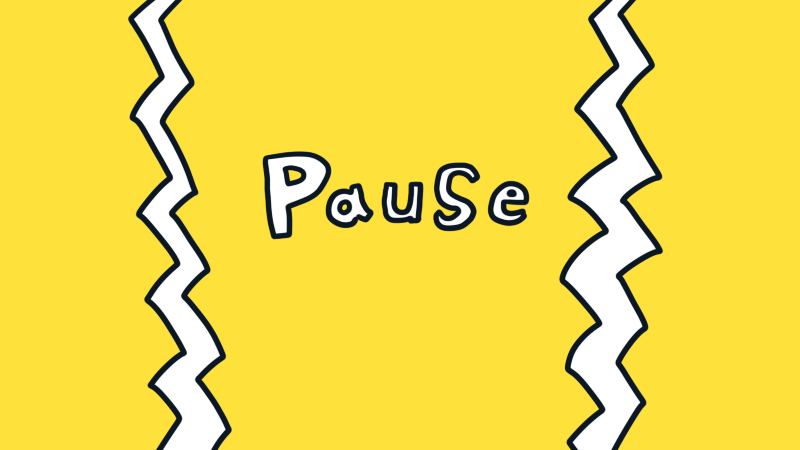
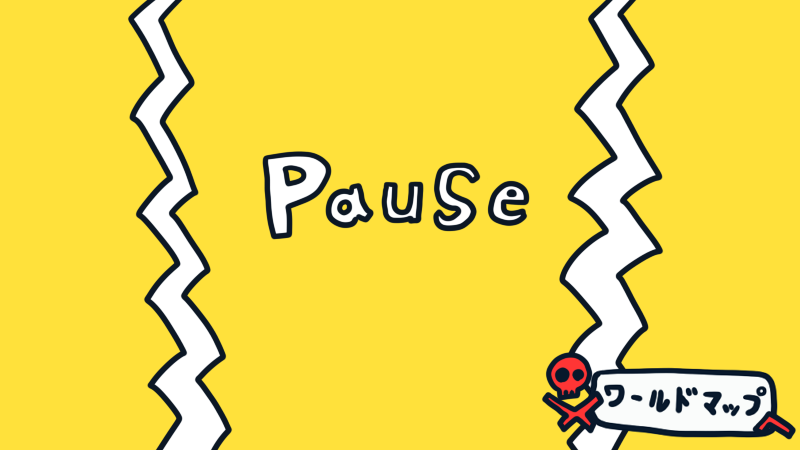
ポーズ画像差し替え

Changed region(s): [[0.6562, 0.7778, 1.0, 0.9956]]

diff --git a/Layer.cpp b/Layer.cpp
@@ -988,11 +988,10 @@ PauseLayer::PauseLayer(){
 
 void PauseLayer::draw(){
 	DrawGraph(0,0,Images::get("pic/Pause.png"),TRUE);
-	DrawBox(WINDOW_X-200,WINDOW_Y-200,WINDOW_X-50,WINDOW_Y-50,GetColor(255,0,0),TRUE);
 }
 
 void PauseLayer::main(){
-	if(this->testBox(WINDOW_X-200,WINDOW_Y-200,WINDOW_X-50,WINDOW_Y-50)&&mouse_in::getIns()->LeftClick()){
+	if(this->testBox(606,384,762,419)&&mouse_in::getIns()->LeftClick()){
 		parentScene->buttonPushed("exit");
 	}else if(mouse_in::getIns()->LeftClick()){
 		parentScene->buttonPushed("pause");
